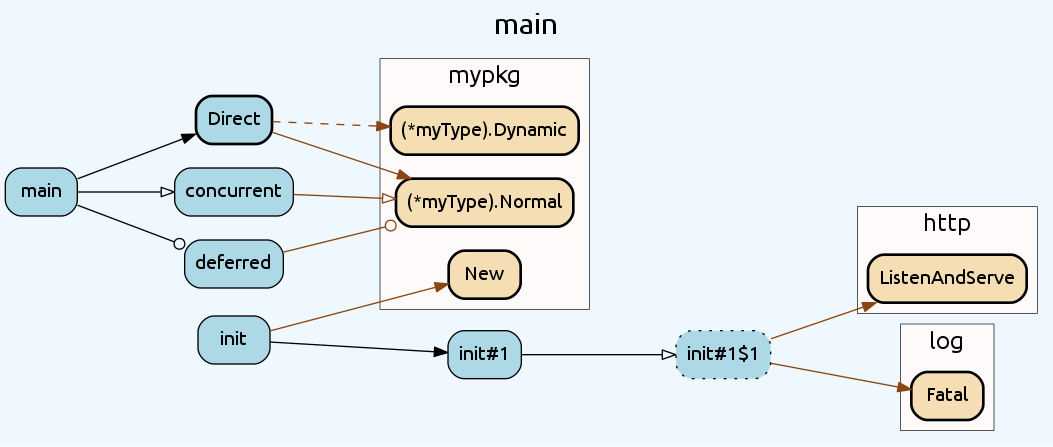
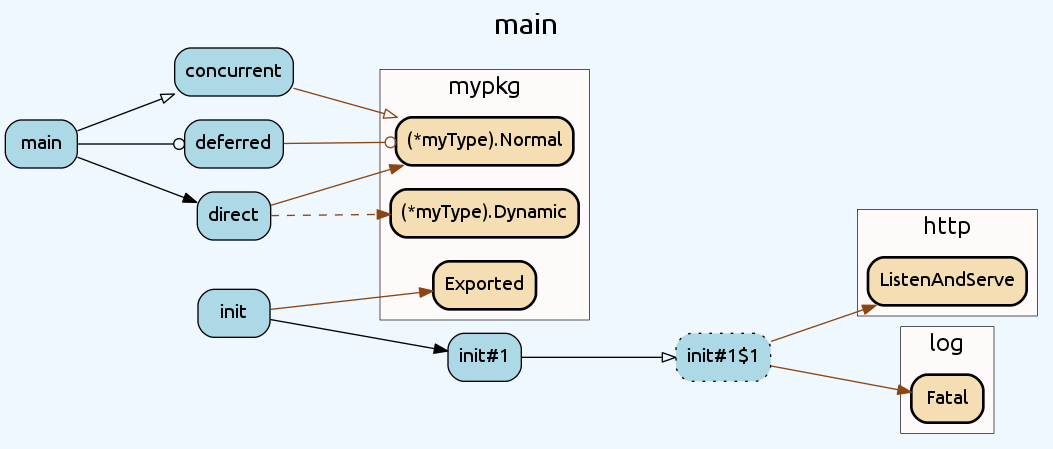
Fix golint issue for examples
- change `main.Direct` func to `main.direct` to be unexported
- change `mypkg.New` func to `mypkg.Exported` to represent exported func

diff --git a/example/main.go b/example/main.go
@@ -7,9 +7,7 @@ import (
 	"github.com/TrueFurby/go-callvis/example/mypkg"
 )
 
-var (
-	t = mypkg.New()
-)
+var t = mypkg.Exported()
 
 type myIface interface {
 	Dynamic()
@@ -21,7 +19,13 @@ func init() {
 	}()
 }
 
-func Direct() {
+func main() {
+	defer deferred()
+	direct()
+	go concurrent()
+}
+
+func direct() {
 	var i myIface = t
 	i.Dynamic()
 	t.Normal()
@@ -33,10 +37,4 @@ func deferred() {
 
 func concurrent() {
 	go t.Normal()
-}
-
-func main() {
-	defer deferred()
-	Direct()
-	go concurrent()
 }

diff --git a/example/mypkg/mypkg.go b/example/mypkg/mypkg.go
@@ -2,9 +2,9 @@ package mypkg
 
 type myType struct{}
 
-func New() *myType {
-	t := &myType{}
-	return t
+// Exported represents exported func
+func Exported() *myType {
+	return &myType{}
 }
 
 func (t *myType) Normal() {}
